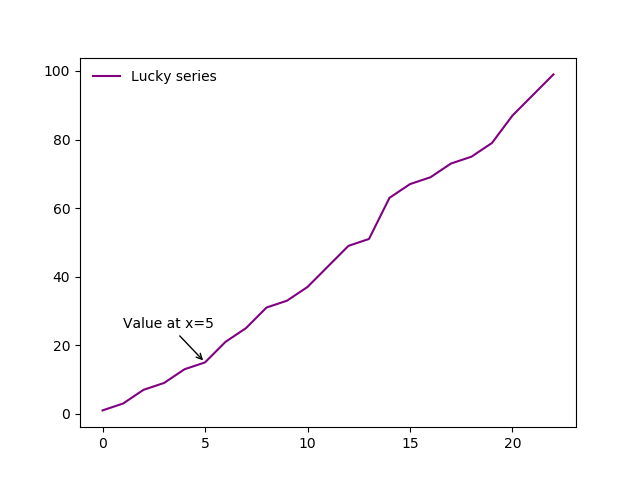
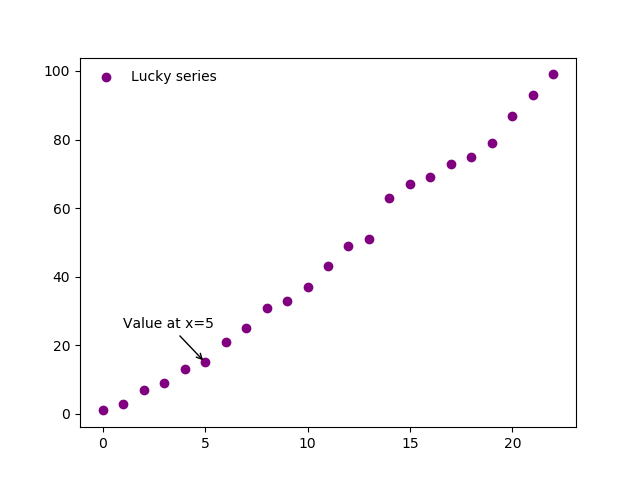
Scatter plot of lucky series

diff --git a/src/other/lucky.py b/src/other/lucky.py
@@ -25,7 +25,7 @@ while dCount < 10:
 
 X = np.arange(0,len(Y))
 
-plt.plot(X,Y,color="purple",label="Lucky series")
+plt.scatter(X,Y,color="purple",label="Lucky series")
 
 plt.legend(loc='upper left', frameon=False)
 plt.annotate('Value at x=5', xy=(5,15), xytext=(1,25), arrowprops=dict(arrowstyle="->"))
